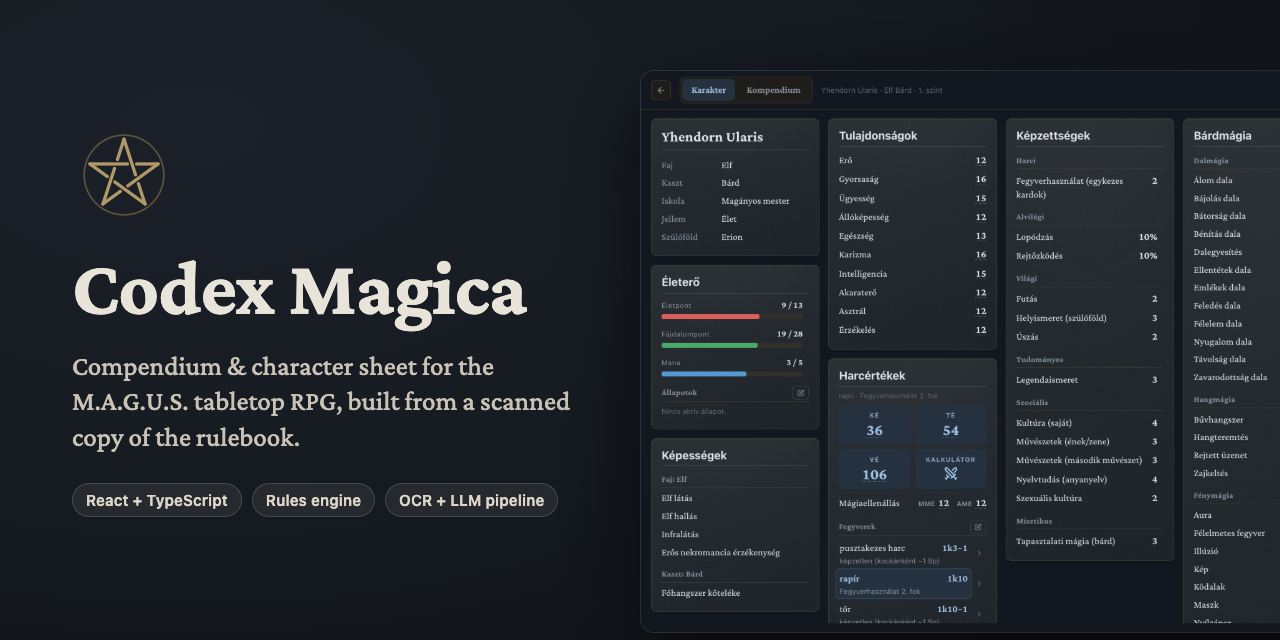
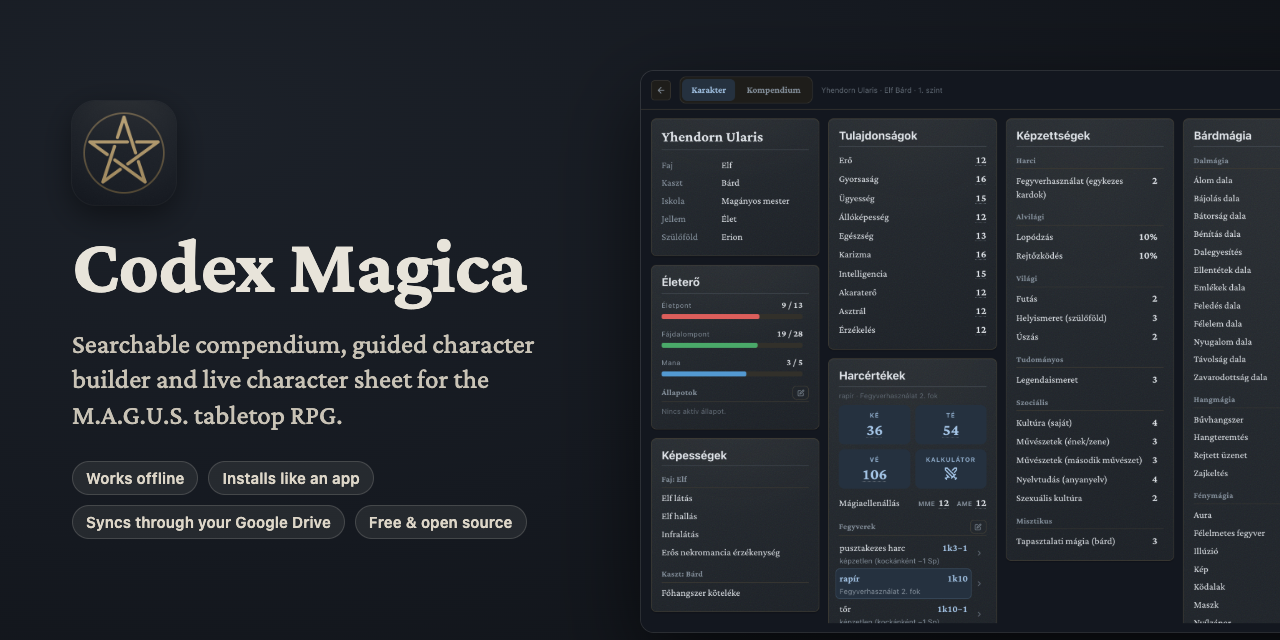
No white flash on a cold start in dark mode; social preview for players
- index.html paints the page in the saved colour mode before the ~2 MB app script has loaded
  (same storage key Chakra uses; the `page` token as hex), so reopening the app in dark mode no
  longer flashes white. Verified with the script held back: before, the page stayed transparent
  (browser white) until the app ran; now it's the dark page colour from the first paint.
- Social preview: copy for players (compendium, builder, live sheet; works offline, installs
  like an app, syncs through your Google Drive, free & open source) and the real app icon with
  its parchment finish.

Changed region(s): [[0.0312, 0.375, 0.4375, 0.8438], [0.0625, 0.1562, 0.125, 0.3438]]

diff --git a/index.html b/index.html
@@ -2,6 +2,24 @@
 <html lang="hu">
   <head>
     <meta charset="utf-8" />
+    <!-- Paint the page in the right colour before the app's ~2 MB script has loaded, so a cold start in
+         dark mode doesn't flash white. The mode comes from where Chakra keeps it; the colours are the
+         app's `page` token (theme.ts) as hex, so even browsers without OKLCH show them. -->
+    <script>
+      (function () {
+        try {
+          var m = localStorage.getItem("chakra-ui-color-mode");
+          if (m === "dark" || m === "light") {
+            document.documentElement.dataset.theme = m;
+            document.documentElement.style.colorScheme = m;
+          }
+        } catch (e) {}
+      })();
+    </script>
+    <style>
+      html, body { background-color: #ebeff2; }
+      html[data-theme="dark"], html[data-theme="dark"] body { background-color: #13171f; }
+    </style>
     <!-- Icon filenames carry the VITE_ICON_SUFFIX env var: empty in production, "-dev" in local
          development (see .env / .env.development) so the dev PWA/home-screen icon shows a DEV badge.
          ?v=N busts Safari's favicon cache, which is keyed by URL and ignores reloads: bump it whenever
